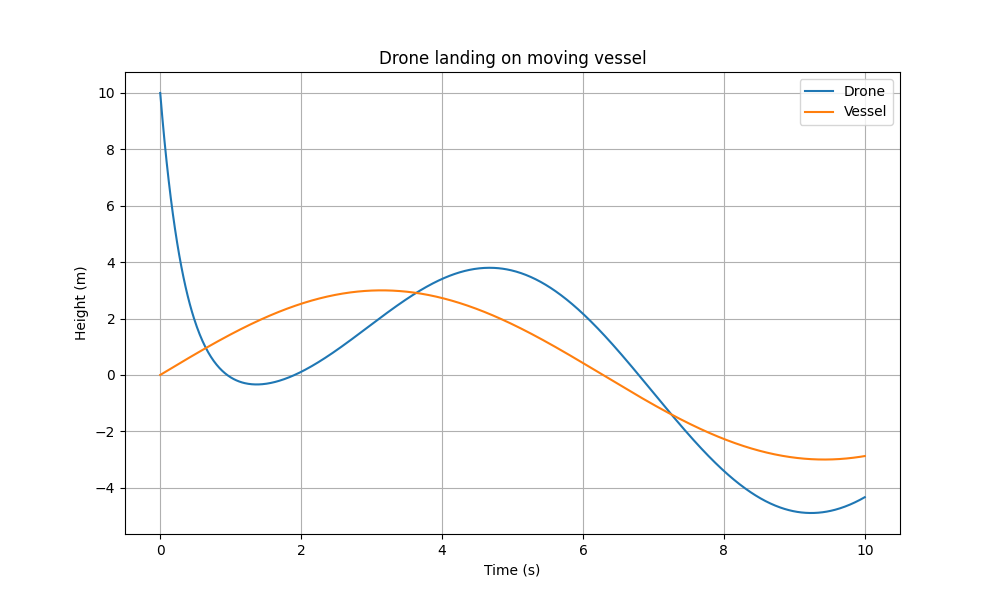
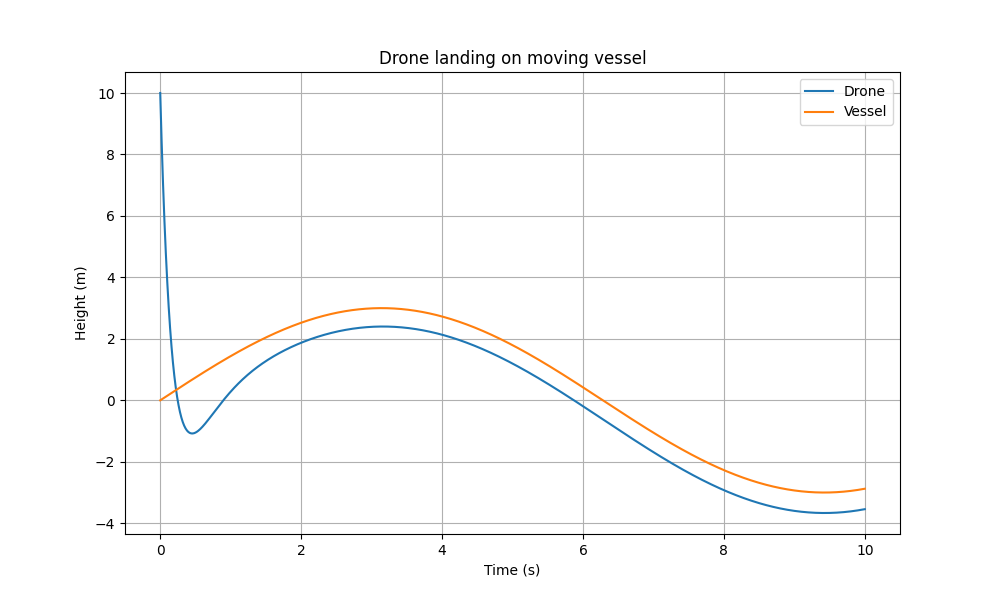
Add gravity to drone physics and tune PID gains

diff --git a/src/drone.py b/src/drone.py
@@ -8,7 +8,8 @@ class Drone:
         self.g = 9.81    # m/s^2
 
     def update(self, force, dt):
-        acceleration = force / self.mass
+        force_vector = np.array([0.0, 0.0, force - self.mass * self.g])
+        acceleration = force_vector / self.mass
         self.velocity += acceleration * dt
         self.position += self.velocity * dt
 

diff --git a/src/simulation.py b/src/simulation.py
@@ -7,7 +7,7 @@ class Simulation:
     def __init__(self, dt=0.01):
         self.drone = Drone()
         self.vessel = Vessel()
-        self.controller = PIDController(Kp=1, Ki=2, Kd=3)
+        self.controller = PIDController(Kp=15, Ki=0.1, Kd=8)
         self.dt = dt
         self.t = 0.0
         self.time_history = []